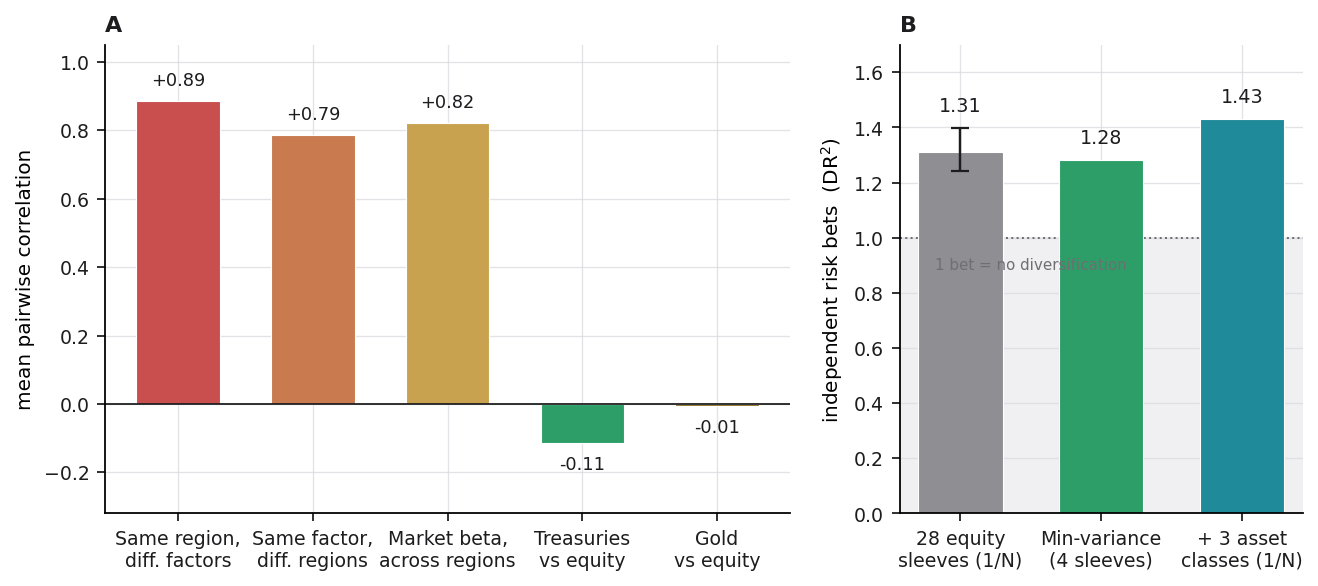
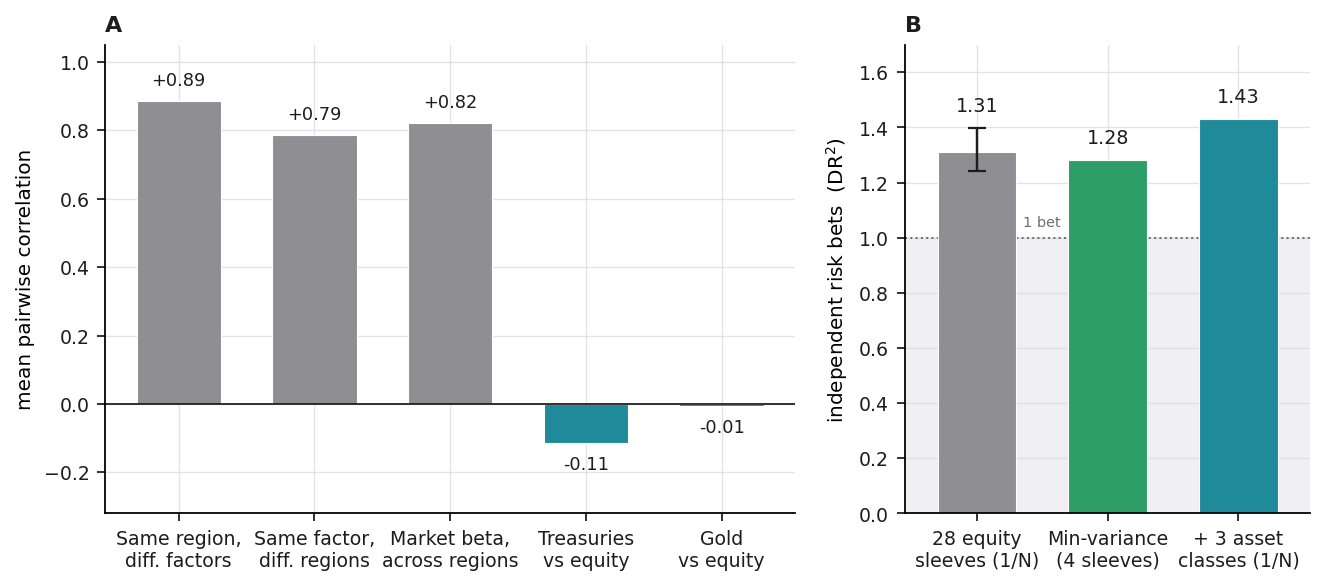
figures: recolour Exhibit 5 categorically, not by valence
Owner asked whether red/green confuse in Exhibit 5. They do: in finance those
mean loss and gain, and here they meant a correlation of 0.89 and one of -0.11.
A reader can take the red bar for "this lost money". Red/green is also the worst
pair for colour vision deficiency.

Rejected both alternatives offered, for reasons worth recording:

- A single colour (as in Exhibit 8) would have hidden the grouping that IS the
  finding. The panel exists to show "factor tilts don't decorrelate; asset
  classes do" — three equity-vs-equity cuts high, two asset-class cuts at zero.
  One colour forces the reader to read labels to recover that.
- Shading by value would double-encode what bar height already shows, and would
  imply a continuum where the structure is a clean categorical split.

Used two categorical colours instead, and picked them so they already carry
meaning inside the same exhibit: panel B was already grey for the equity menu
and teal for the extended one. Panel A now uses grey for the three
equity-vs-equity cuts and teal for Treasuries and gold, so across the whole
exhibit grey means equity and teal means asset class. The caption states the key.

Also fixed a legibility bug the recolour exposed: "1 bet = no diversification"
was grey-on-grey inside the shaded band and half-covered by the middle bar. It
is now just "1 bet", placed in the gap between the first two bars, which is the
only spot in that panel empty at every height.
[…]

diff --git a/paper/make_figures.py b/paper/make_figures.py
@@ -87,7 +87,14 @@ def f0_dispersion():
               "Market beta,\nacross regions", "Treasuries\nvs equity", "Gold\nvs equity"]
     vals = [np.mean(within), np.mean(same_fac), np.mean(cross_ref),
             ac_corr.get("US Treasury 10y", np.nan), ac_corr.get("Gold", np.nan)]
-    colors = ["#C94F4F", "#C97A4F", "#C9A24F", "#2E9E68", "#8C6D1F"]
+    # v3: two colours, not five. Red/green carry loss/gain valence in finance, which these
+    # bars do not mean, and red/green is also the worst pair for colour vision deficiency.
+    # Five arbitrary hues encoded nothing; a single colour would have hidden the grouping that
+    # IS the finding. So: grey = equity-vs-equity cuts, teal = asset-class-vs-equity. Those are
+    # the same two colours panel B already uses for the equity menu and the extended one, so
+    # across the whole exhibit grey means equity and teal means asset class.
+    EQ, AC = "#8E8E93", "#1F8A99"
+    colors = [EQ, EQ, EQ, AC, AC]
 
     inp = opt.build_inputs()
     inp_aw = opt.build_inputs(include_asset_classes=True)
@@ -132,8 +139,12 @@ def f0_dispersion():
         axB.text(xi, top + 0.045, f"{v:.2f}", ha="center", va="bottom", fontsize=8.6,
                  color=INK, zorder=4)
     axB.axhline(1.0, color=MUT, lw=0.9, ls=":", zorder=1)
-    axB.text(0.5, 0.93, "1 bet = no diversification", color=MUT, fontsize=6.8,
-             ha="center", va="top", zorder=4)
+    # label the reference line at the right margin, clear of every bar: centred inside the
+    # shaded band it was grey-on-grey and half-covered by the middle bar.
+    # x=0.5 is the gap between bars 1 and 2, and y just above 1.0 is above the shading:
+    # the only spot in this panel that is empty at every height.
+    axB.text(0.5, 1.03, "1 bet", color=MUT, fontsize=6.5, ha="center", va="bottom", zorder=4)
+    axB.set_xlim(-0.55, 2.55)
     axB.set_xticks(xB, bl, fontsize=7.6)
     axB.set_ylabel("independent risk bets  (DR$^2$)", fontsize=9)
     axB.set_ylim(0, 1.7)

diff --git a/paper/tex/paper.tex b/paper/tex/paper.tex
@@ -622,9 +622,10 @@ is almost nothing to optimize. We measure it three ways.
 \exhibittitle{Factor tilts do not decorrelate, and the menu holds about one bet}{ex:dispersion}
 \centering
 \includegraphics[width=\textwidth]{F0_dispersion.pdf}
-\exhibitnote{Panel A: the most correlated cut of the menu is same-region, different-factors
-(0.885), and only the non-equity sleeves are genuinely different bets (Treasuries $-0.115$,
-gold $-0.007$). Panel B: independent risk bets ($DR^{2}$). The shaded band below 1.0 is the
+\exhibitnote{Grey marks equity-against-equity comparisons throughout the exhibit and teal
+marks asset classes. Panel A: the most correlated cut of the menu is same-region,
+different-factors (0.885), and only the non-equity sleeves are genuinely different bets
+(Treasuries $-0.115$, gold $-0.007$). Panel B: independent risk bets ($DR^{2}$). The shaded band below 1.0 is the
 region where a menu holds a single bet, so only the part above it is diversification at all.
 The error bar is the 95\% bootstrap interval reported in Section 6.}
 \end{figure}

diff --git a/info/TODO.md b/info/TODO.md
@@ -491,6 +491,20 @@ Check items off as completed. Add new ones as they come up; keep entries short a
       §6.1 with the regional spread (M37).
     - Title also cut 15→11 words and "Cannot" dropped (PMR limit is 12): now *Dispersion, Not
       Method: Why 1/N Holds on an Investable Factor Menu*.
+  - [x] **Exhibit 5 recoloured, 2026-08-29.** Owner asked whether red/green confuse, since in
+    finance they read as loss/gain — correct, and they were also the worst pair for colour
+    vision deficiency (~8% of men). Rejected both alternatives the owner offered: a single
+    colour would hide the grouping that IS the finding (three equity cuts high, two
+    asset-class cuts at zero), and shading by value would double-encode what bar height
+    already shows, implying a continuum where the split is categorical. Used two categorical
+    colours instead, chosen so they already mean something in panel B of the same exhibit:
+    **grey = equity, teal = asset class, in both panels**. Caption states the key.
+    Also fixed "1 bet = no diversification", which was grey-on-grey inside the shaded band and
+    half-covered by the middle bar; now just "1 bet" in the gap between bars 1 and 2, the only
+    spot in that panel empty at every height.
+    - [ ] Minor, not acted on: red means three different things across the exhibits —
+      "significantly worse" (Exhibit 2), a boundary you cannot cross (Exhibits 3 and 4), and
+      "the observed result" (Exhibit 6). The last is the odd one out. Worth a decision.
   - [x] **Formulas added, 2026-08-29 — the maths now sits on the contribution too.** The paper's
     only two equations were the estimator's gate and blend, i.e. all of its mathematics was
     attached to the one thing that did NOT work. Added three numbered equations and one inline:
